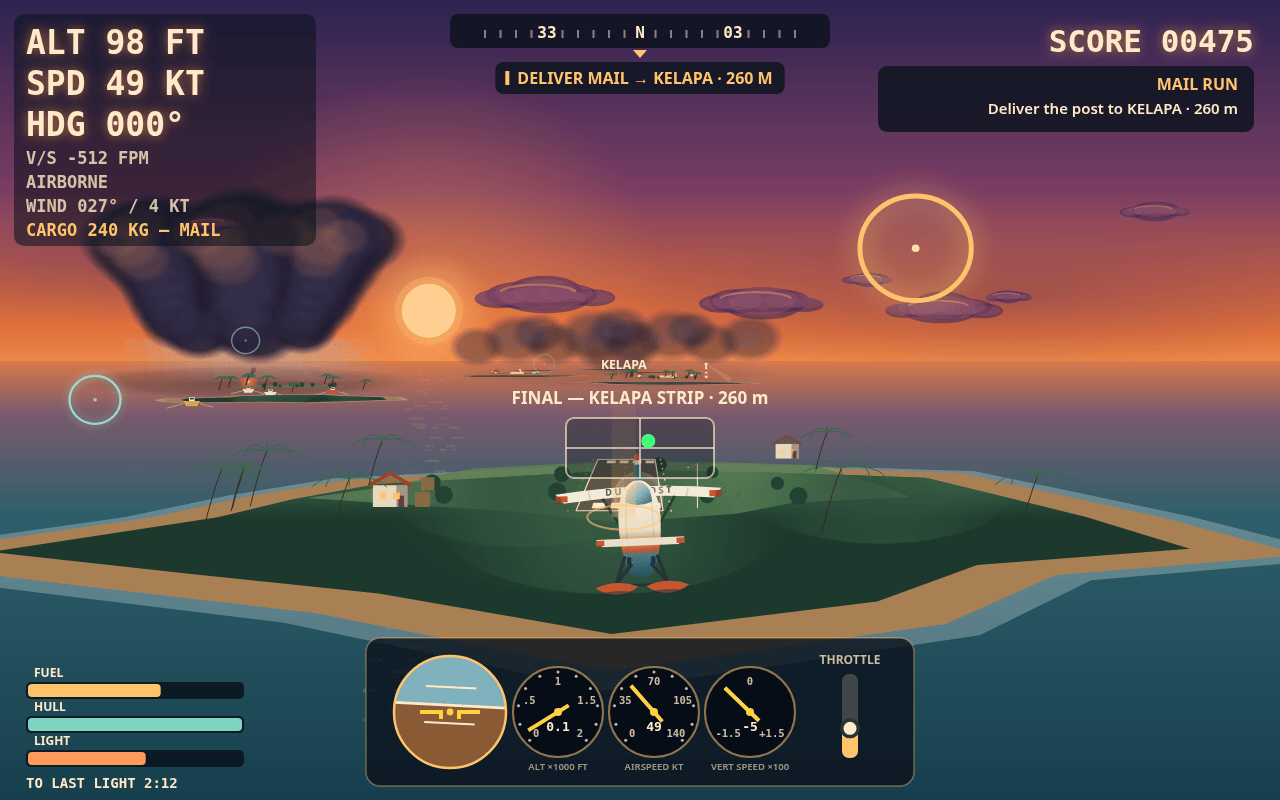
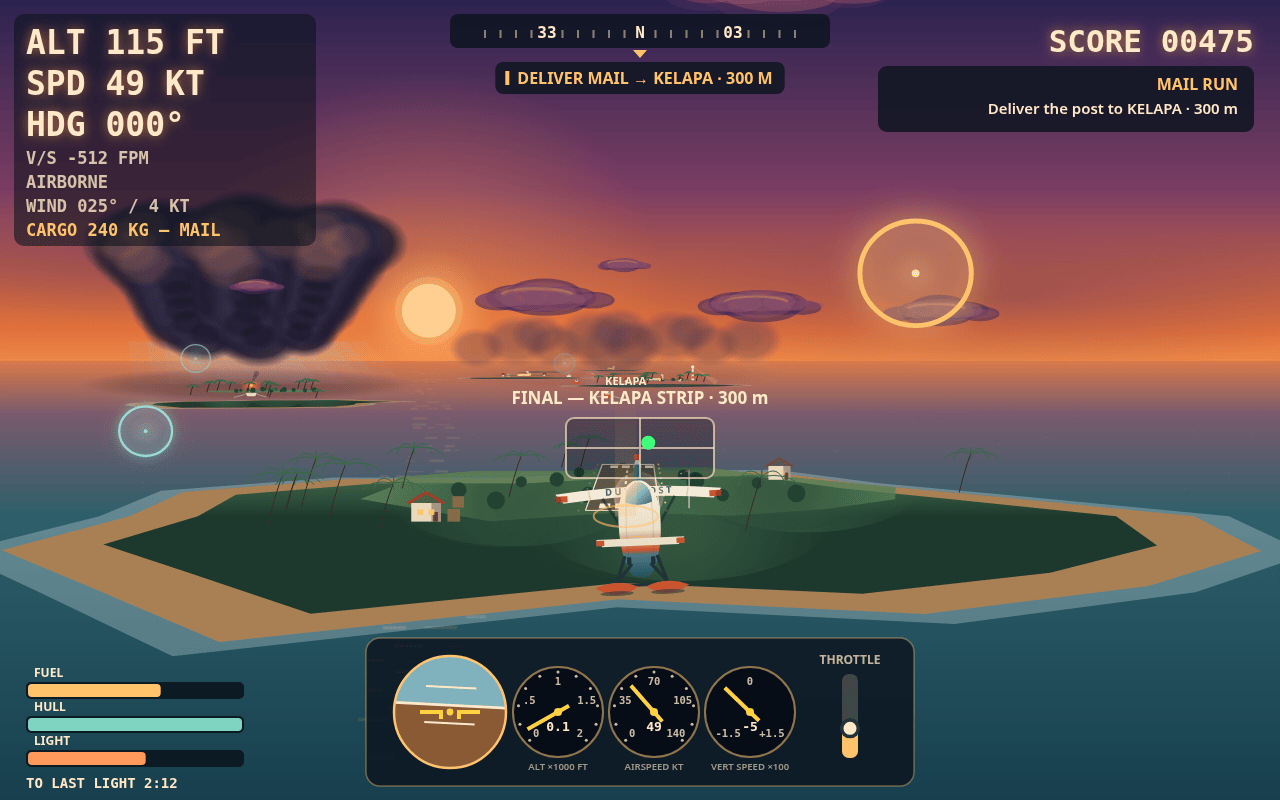
Duskpost V5: lit-gate rings, soft clouds, grounded detail
Far rings get pre-rendered glow sprites so they read as lit gates at
range; cloud rim arcs become layered jittered strokes; the squall bank
is haze-blended and de-saturated at range; the delivery centreline
finally reads; the storm frame is recomposed with a darker core and a
forked bolt; huts sit on the ground; tree-line discs only draw from
the air; the sparkle lattice is broken; approach restaged at 300 m;
palms 9 to 12 per island. Playthrough chain, storm and squall
assertions re-verified; main.ts output byte-identical.

diff --git a/game/src/render.js b/game/src/render.js
@@ -152,7 +152,10 @@ function drawSea(ctx, v, plane, light) {
   ctx.fillStyle = 'rgba(220,245,245,0.35)';
   for (let i = 0; i < 70; i += 1) {
     const wz = plane.z + 40 + ((i * 613.7) % 1500);
-    const wx = plane.x + ((i * 389.3) % 900) - 450;
+    // A hashed sideways jitter on top of the modular placement: the
+    // bare steps lay the dashes on diagonal lattice rows, a pattern
+    // stamped on the water; jittered, they are just sparkle.
+    const wx = plane.x + ((i * 389.3) % 900) - 450 + Math.sin(i * 91.7) * 70;
     const p = project(v, wx, 0, wz + ((plane.z * 3 + i * 91) % 60));
     if (!p || p.y < v.horizon) continue;
     const len = clamp(p.s * 0.09, 2, 26);
@@ -228,8 +231,11 @@ function drawSquall(ctx, v, sq, t) {
 
   ctx.save();
   // The whole line fades in with range: at three kilometres it is a
-  // rumour on the horizon, not a smear stamped across it.
-  ctx.globalAlpha = clamp((s - 0.16) / 0.3, 0.3, 1);
+  // rumour on the horizon, not a smear stamped across it. The fade runs
+  // over a long span of s and never saturates at the cover's distance
+  // (s ≈ 0.48): a bank at full strength there stacked its twelve puffs
+  // into a solid dark sausage on the horizon.
+  ctx.globalAlpha = clamp((s - 0.14) / 0.5, 0.35, 1);
 
   // The sea under the line lies in shadow: a wide soft gradient, no rim.
   ctx.save();
@@ -247,8 +253,8 @@ function drawSquall(ctx, v, sq, t) {
 
   // The rain curtain: one wide soft wash with streaks running down it.
   const grad = ctx.createLinearGradient(0, baseY, 0, seaY);
-  grad.addColorStop(0, 'rgba(168,182,205,0.13)');
-  grad.addColorStop(1, 'rgba(168,182,205,0.03)');
+  grad.addColorStop(0, 'rgba(168,182,205,0.17)');
+  grad.addColorStop(1, 'rgba(168,182,205,0.05)');
   ctx.fillStyle = grad;
   ctx.beginPath();
   ctx.moveTo(base.x - halfW * 0.92, baseY);
@@ -278,12 +284,19 @@ function drawSquall(ctx, v, sq, t) {
     [0.58, 0.40, 0.17], [0.82, 0.56, 0.19], [0.0, 0.30, 0.24],
     [-0.48, 0.72, 0.16], [0.46, 0.82, 0.15], [0.02, 0.86, 0.18],
   ];
+  // Distance haze for the bank itself: the islands retint toward the
+  // dusk mauve as they recede, and a bank that keeps its full
+  // night-violet at two kilometres sits on the horizon like ink. Blend
+  // the puff colours toward the mauve by the same range that fades
+  // them, so distance softens the bank's colour as well as its alpha.
+  const haze = clamp(0.95 - s, 0, 0.5);
+  const blend = (r, g, b, a) => `rgba(${Math.round(r + (122 - r) * haze)},${Math.round(g + (74 - g) * haze)},${Math.round(b + (96 - b) * haze)},${a})`;
   for (const [fx, fy, fr] of puffs) {
-    softPuff(ctx, base.x + fx * halfW, baseY - bodySpan * fy, fr * halfW * 1.1, 'rgba(38,34,56,0.95)', 'rgba(38,34,56,0)');
+    softPuff(ctx, base.x + fx * halfW, baseY - bodySpan * fy, fr * halfW * 1.1, blend(38, 34, 56, 0.95), blend(38, 34, 56, 0));
   }
   for (const [fx, fy, fr] of puffs) {
     if (fy < 0.5) continue;
-    softPuff(ctx, base.x + fx * halfW - halfW * 0.02, baseY - bodySpan * (fy + 0.05), fr * halfW * 0.66, 'rgba(96,84,120,0.5)', 'rgba(96,84,120,0)');
+    softPuff(ctx, base.x + fx * halfW - halfW * 0.02, baseY - bodySpan * (fy + 0.05), fr * halfW * 0.66, blend(96, 84, 120, 0.5), blend(96, 84, 120, 0));
   }
 
   // Lightning, rarer and quieter than the cell's: a glow inside the bank
@@ -391,6 +404,14 @@ function drawStorm(ctx, v, storm, t) {
   for (const [fx, fy, fr] of puffs) {
     softPuff(ctx, cx + fx * R - R * 0.03, baseY - bodySpan * (fy + 0.035), fr * R * 0.8, 'rgba(59,53,84,0.30)', 'rgba(59,53,84,0)');
   }
+  // A darker, smaller core inside the belly: at the scale of the storm
+  // frame the soft passes composite into one smooth wash and the mass
+  // reads flat — shadowed cores at half radius, low in the column, give
+  // it internal structure at any range.
+  for (const [fx, fy, fr] of puffs) {
+    if (fy > 0.55) continue;
+    softPuff(ctx, cx + fx * R * 0.92, baseY - bodySpan * (fy + 0.01), fr * R * 0.5, 'rgba(17,14,29,0.34)', 'rgba(17,14,29,0)');
+  }
   for (const [fx, fy, fr] of puffs) {
     if (fy < 0.6) continue;
     softPuff(ctx, cx + (fx - 0.1) * R, baseY - bodySpan * (fy + 0.03), fr * R * 0.66, 'rgba(255,150,90,0.13)', 'rgba(255,150,90,0)');
@@ -409,18 +430,28 @@ function drawStorm(ctx, v, storm, t) {
     ctx.fillStyle = glow;
     ctx.fillRect(cx - R, topY - bodySpan * 0.1, R * 2, bodySpan * 1.1);
     ctx.strokeStyle = `rgba(255,240,190,${0.9 * flash})`;
-    ctx.lineWidth = Math.max(1.4, s * 0.5);
+    ctx.lineWidth = Math.max(2.4, s * 0.8);
     ctx.shadowColor = 'rgba(255,240,190,0.9)';
-    ctx.shadowBlur = 12;
-    ctx.beginPath();
-    let bx = cx + R * 0.12;
-    let by = baseY - bodySpan * 0.04;
-    ctx.moveTo(bx, by);
+    ctx.shadowBlur = 18;
+    // A bolt with a fork: one hairline zigzag read as a crack on the
+    // image; a thicker, branched strike reads as lightning.
+    const nodes = [[cx + R * 0.12, baseY - bodySpan * 0.04]];
     for (let i = 1; i <= 4; i += 1) {
-      bx += (i % 2 === 0 ? 1 : -1) * R * 0.07;
-      by += (seaY - baseY) / 4;
-      ctx.lineTo(bx, by);
+      nodes.push([
+        nodes[i - 1][0] + (i % 2 === 0 ? 1 : -1) * R * 0.07,
+        nodes[i - 1][1] + (seaY - baseY) / 4,
+      ]);
     }
+    ctx.beginPath();
+    ctx.moveTo(nodes[0][0], nodes[0][1]);
+    for (let i = 1; i < nodes.length; i += 1) ctx.lineTo(nodes[i][0], nodes[i][1]);
+    ctx.stroke();
+    ctx.strokeStyle = `rgba(255,240,190,${0.55 * flash})`;
+    ctx.lineWidth = Math.max(1.6, s * 0.5);
+    ctx.beginPath();
+    ctx.moveTo(nodes[2][0], nodes[2][1]);
+    ctx.lineTo(nodes[2][0] - R * 0.09, nodes[2][1] + (seaY - baseY) * 0.22);
+    ctx.lineTo(nodes[2][0] - R * 0.05, nodes[2][1] + (seaY - baseY) * 0.44);
     ctx.stroke();
     ctx.shadowBlur = 0;
   }
@@ -475,14 +506,33 @@ function drawCloud(ctx, v, c) {
     );
     ctx.fill();
   });
-  // The lit top edge: an arc stroked along the cluster's top, never a filled
-  // ellipse — a filled one draws a clean oval inside the cloud, an "eye"
-  // that turns the bank into a lens at screenshot size.
-  ctx.strokeStyle = `rgba(255,166,110,${big ? 0.30 : 0.42})`;
-  ctx.lineWidth = Math.max(1.2, w * 0.028);
-  ctx.beginPath();
-  ctx.ellipse(p.x - w * 0.05, p.y - w * 0.02, w * 0.46 * (0.92 + jit(0, 10) * 0.14), w * spread * 0.30 * (0.9 + jit(0, 11) * 0.18), 0, Math.PI * 1.08, Math.PI * 1.92);
-  ctx.stroke();
+  // The lit top edge: light, not a line — and never a filled ellipse,
+  // which draws a clean oval inside the cloud, an "eye". The rim is
+  // stroked three times — a wide faint pass, a mid pass, a narrower
+  // brighter one — each jittered like the puffs, so the light melts
+  // into the cloud the way dusk light does. (Layered strokes, not a
+  // shadow blur: shadowBlur on a stroke this size costs more than the
+  // rest of the frame together on a CPU canvas, and the frame rate is
+  // the game's feel.) One clean hard arc here is what resolved into a
+  // lens outline at screenshot size, worst on the small clouds, where
+  // the arc was the whole drawing.
+  for (const [salt, alpha, width, shrink] of [
+    [10, 0.05, 0.10, 1],
+    [20, 0.10, 0.055, 0.96],
+    [30, big ? 0.20 : 0.26, 0.028, 0.92],
+  ]) {
+    ctx.strokeStyle = `rgba(255,166,110,${alpha})`;
+    ctx.lineWidth = Math.max(1.2, w * width);
+    ctx.beginPath();
+    ctx.ellipse(
+      p.x - w * 0.05 + (jit(0, salt + 1) - 0.5) * w * 0.05,
+      p.y - w * 0.02 + (jit(0, salt + 2) - 0.5) * w * 0.03,
+      w * 0.46 * shrink * (0.92 + jit(0, salt + 3) * 0.14),
+      w * spread * 0.30 * shrink * (0.9 + jit(0, salt + 4) * 0.18),
+      0, Math.PI * 1.08, Math.PI * 1.92,
+    );
+    ctx.stroke();
+  }
 }
 
 function drawIsland(ctx, v, isl, t, light, world) {
@@ -548,10 +598,13 @@ function drawIsland(ctx, v, isl, t, light, world) {
   ctx.restore();
   // A tree-line of dark crowns along the ridge, so the top reads as wooded.
   // Past ~2.6 km the crowns would be 3 px scratches on the horizon, not
-  // trees — the haze alone carries the island there.
-  if (centre && centre.s > 0.45 && fwd < 2600) {
+  // trees — the haze alone carries the island there. And only from the
+  // air: from a camera at strip level the far crowns sit at eye height
+  // on the slope and read as dark discs punched in the grass, so a low
+  // camera leaves the ridge to the ridge blob and the palms.
+  if (centre && centre.s > 0.45 && fwd < 2600 && v.camY - isl.h > 14) {
     ctx.fillStyle = toneLand('#2c5a3c', '#16281e');
-    for (let i = 0; i < 11; i += 1) {
+    for (let i = 0; i < 13; i += 1) {
       const a = i * 2.4 + isl.z * 0.01;
       const rr = isl.r * 0.42 * (0.72 + 0.28 * Math.sin(i * 7.3));
       const p = project(v, isl.x + Math.cos(a) * rr, isl.h * 0.98, isl.z + Math.sin(a) * rr);
@@ -586,10 +639,15 @@ function drawIsland(ctx, v, isl, t, light, world) {
 function drawHuts(ctx, v, isl, t) {
   const spots = [
     { dx: -isl.stripWid / 2 - 38, dz: -52, roof: '#a03d24' },
-    { dx: isl.stripWid / 2 + 40, dz: 66, roof: '#7a4a2c' },
+    { dx: isl.stripWid / 2 + 40, dz: 46, roof: '#7a4a2c' },
   ];
   spots.forEach((spot, i) => {
-    const base = project(v, isl.x + spot.dx, isl.h, isl.z + spot.dz);
+    // The huts stand on the island's shoulder, not its summit: at their
+    // spots the ground (heightAt) is ≈ 0.6 of isl.h, and a hut planted
+    // at the full height floats on the skyline in any ground-level
+    // frame — the delivery shot's east hut hung on the horizon with
+    // the sea behind it.
+    const base = project(v, isl.x + spot.dx, isl.h * 0.62, isl.z + spot.dz);
     if (!base || base.s < 0.35) return;
     const w = 7 * base.s;
     const h = 4.4 * base.s;
@@ -750,14 +808,21 @@ function drawStrip(ctx, v, isl, t, world) {
   // the range where it should read loudest — parked on it in the
   // delivery frame, one dash survived.
   ctx.fillStyle = '#ffe9c9';
-  for (let d = -hl + 10; d < hl - 6; d += 16) {
+  for (let d = -hl + 10; d < hl - 7; d += 16) {
     const a = projectClamped(v, isl.x, y, isl.z + d);
-    const b = projectClamped(v, isl.x, y, isl.z + d + 7);
+    const b = projectClamped(v, isl.x, y, isl.z + d + 8);
+    // The dash's half-width in screen px: at s * 0.03 it was a hairline
+    // (0.3–1.2 px at strip ranges) and the centreline vanished at ground
+    // level, where the delivery frame needs it most. s * 0.14 is about
+    // 0.3 m of paint — a real centreline's width — clamped so a dash
+    // under the floats never becomes a slab.
+    const aw = clamp(a.s * 0.14, 1.1, 24);
+    const bw = clamp(b.s * 0.14, 1.1, 24);
     ctx.beginPath();
-    ctx.moveTo(a.x - a.s * 0.03, a.y);
-    ctx.lineTo(a.x + a.s * 0.03, a.y);
-    ctx.lineTo(b.x + b.s * 0.03, b.y);
-    ctx.lineTo(b.x - b.s * 0.03, b.y);
+    ctx.moveTo(a.x - aw, a.y);
+    ctx.lineTo(a.x + aw, a.y);
+    ctx.lineTo(b.x + bw, b.y);
+    ctx.lineTo(b.x - bw, b.y);
     ctx.closePath();
     ctx.fill();
   }
@@ -962,6 +1027,29 @@ function drawBoat(ctx, v, b, t) {
   }
 }
 
+/** A ring's glow, drawn once into a sprite: a radial gradient of light —
+ *  strong at the middle, gone at the rim. The renderer has no bloom pass,
+ *  so a lit gate at two kilometres is this sprite laid behind the rim:
+ *  light around the ring, scaled with its range, instead of a brighter
+ *  stroke on the rim itself (which is what drew bubbles). Two tints: the
+ *  next ring burns gold, the route behind it teal. */
+function makeGlowSprite(r, g, b) {
+  const c = document.createElement('canvas');
+  c.width = 256;
+  c.height = 256;
+  const g2 = c.getContext('2d');
+  const grad = g2.createRadialGradient(128, 128, 8, 128, 128, 128);
+  grad.addColorStop(0, `rgba(${r},${g},${b},0.5)`);
+  grad.addColorStop(0.35, `rgba(${r},${g},${b},0.20)`);
+  grad.addColorStop(0.7, `rgba(${r},${g},${b},0.055)`);
+  grad.addColorStop(1, `rgba(${r},${g},${b},0)`);
+  g2.fillStyle = grad;
+  g2.fillRect(0, 0, 256, 256);
+  return c;
+}
+let glowGold = null;
+let glowTeal = null;
+
 function drawRing(ctx, v, ring, isNext, t) {
   const p = project(v, ring.x, ring.y, ring.z);
   if (!p) return;
@@ -978,6 +1066,23 @@ function drawRing(ctx, v, ring, isNext, t) {
   // glint on the route and only a near one is a gate. The next ring, the
   // one she is flying at, keeps its full lamp at every range.
   const fade = isNext ? 1 : clamp(1.2 - p.fwd / 2100, 0.16, 0.9);
+  // The glow sprite behind the rim, screened over whatever is already
+  // drawn: at range the rim itself is a hairline (see the fade below),
+  // and it is this halo that makes the hairline read as a lit gate
+  // hanging on the route rather than a circle drawn on the sea.
+  if (!glowGold) {
+    glowGold = makeGlowSprite(255, 196, 107);
+    glowTeal = makeGlowSprite(140, 235, 220);
+  }
+  const glowA = isNext ? 0.55 : fade * clamp(1.3 - p.fwd / 2400, 0.3, 1) * 0.6;
+  if (glowA > 0.02) {
+    ctx.save();
+    ctx.globalCompositeOperation = 'screen';
+    ctx.globalAlpha = glowA;
+    const gs = rx * pulse * 3.6;
+    ctx.drawImage(isNext ? glowGold : glowTeal, p.x - gs / 2, p.y - (gs * 0.94) / 2, gs, gs * 0.94);
+    ctx.restore();
+  }
   ctx.save();
   ctx.globalAlpha = fade;
   ctx.shadowColor = isNext ? '#ffc46b' : 'rgba(140,230,220,0.8)';
@@ -999,12 +1104,12 @@ function drawRing(ctx, v, ring, isNext, t) {
   ctx.arc(p.x, p.y, clamp(rx * 0.07, 1.2, 4), 0, Math.PI * 2);
   ctx.fill();
   ctx.restore();
-  if (isNext) {
-    ctx.fillStyle = 'rgba(255,196,107,0.10)';
-    ctx.beginPath();
-    ctx.ellipse(p.x, p.y, rx * pulse, ry * pulse, 0, 0, Math.PI * 2);
-    ctx.fill();
-  }
+  // A lit interior: the next ring's disc at full warmth, a far ring's at
+  // a whisper — a gate has light inside it, not just a rim.
+  ctx.fillStyle = isNext ? 'rgba(255,196,107,0.10)' : `rgba(160,235,225,${0.055 * fade})`;
+  ctx.beginPath();
+  ctx.ellipse(p.x, p.y, rx * pulse, ry * pulse, 0, 0, Math.PI * 2);
+  ctx.fill();
 }
 
 function drawParticles(ctx, v, fx) {

diff --git a/game/src/shots.js b/game/src/shots.js
@@ -27,11 +27,15 @@ export function stageShot(name, seed) {
 
   if (name === 'approach') {
     // On final for Kelapa: low, slow, lined up on the strip, guidance ladder lit.
-    // The rotation's first mission is already the Kelapa mail run.
+    // The rotation's first mission is already the Kelapa mail run. Staged a
+    // touch higher and longer than a real final (300 m, isl.h + 26) so the
+    // whole strip — the frame's subject — shows inside the ladder instead
+    // of hiding behind it and the aircraft; still inside the guidance
+    // envelope, which arms below 85 m.
     const isl = world.islands[1];
     plane.x = isl.x + 4;
-    plane.z = isl.z - 260;
-    plane.y = isl.h + 21;
+    plane.z = isl.z - 300;
+    plane.y = isl.h + 26;
     plane.hdg = 0;
     plane.speed = 25;
     plane.throttle = 0.38;
@@ -60,12 +64,15 @@ export function stageShot(name, seed) {
     // that the turbulence is real (stormAt ≈ 0.8 here, so the warning reads
     // ROUGH AIR) and the whole cell — column, anvil, rain shaft, lightning —
     // stands in the left of the frame, while the next ring hangs in the
-    // clear air east of it: the routing decision in one frame.
+    // clear air east of it: the routing decision in one frame. The heading
+    // is swung a touch west of north so the cell's mass fills the frame's
+    // left half; headed due north its centre projected off the frame's
+    // edge and the shot was a flat wash of shoulder and empty sky.
     const isl = world.islands[3]; // CAHAYA, the mail's destination
     plane.x = -470;
     plane.z = 2680;
     plane.y = 95;
-    plane.hdg = 0.05;
+    plane.hdg = -0.09;
     plane.speed = 38;
     plane.throttle = 0.66;
     plane.vy = 0.4;
@@ -77,7 +84,10 @@ export function stageShot(name, seed) {
     for (const r of world.rings) if (r.z < plane.z) r.passed = true;
     const ring = world.rings.find((r) => !r.passed && r.z > plane.z);
     if (ring) {
-      ring.x = plane.x + 210;
+      // +120, not the +210 the north-heading staging used: swung west,
+      // the wider offset projects the ring off the frame's right edge
+      // and the frame loses its "clear air east" half.
+      ring.x = plane.x + 120;
       ring.y = 90;
       ring.z = plane.z + 380;
     }

diff --git a/game/src/archipelago.js b/game/src/archipelago.js
@@ -36,7 +36,7 @@ export function createWorld(seed) {
       outline,
       stripLen: 120,
       stripWid: 17,
-      palms: Array.from({ length: 9 }, () => ({
+      palms: Array.from({ length: 12 }, () => ({
         a: rng.next() * Math.PI * 2,
         d: 0.35 + rng.next() * 0.5,
         s: 0.8 + rng.next() * 0.6,
